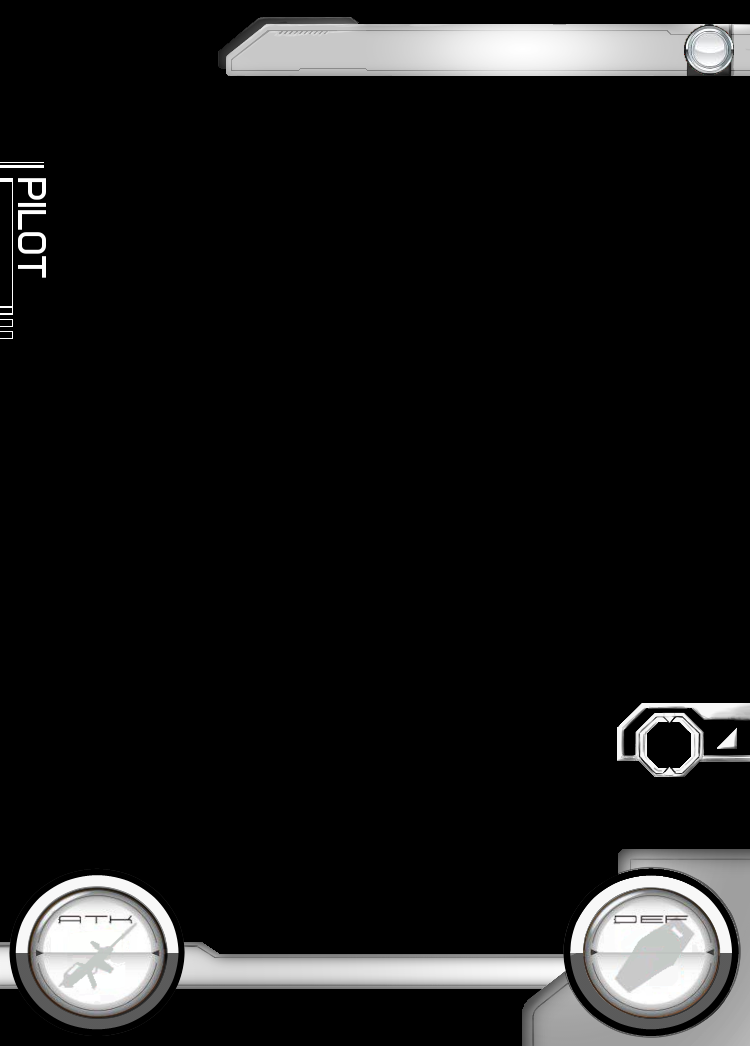
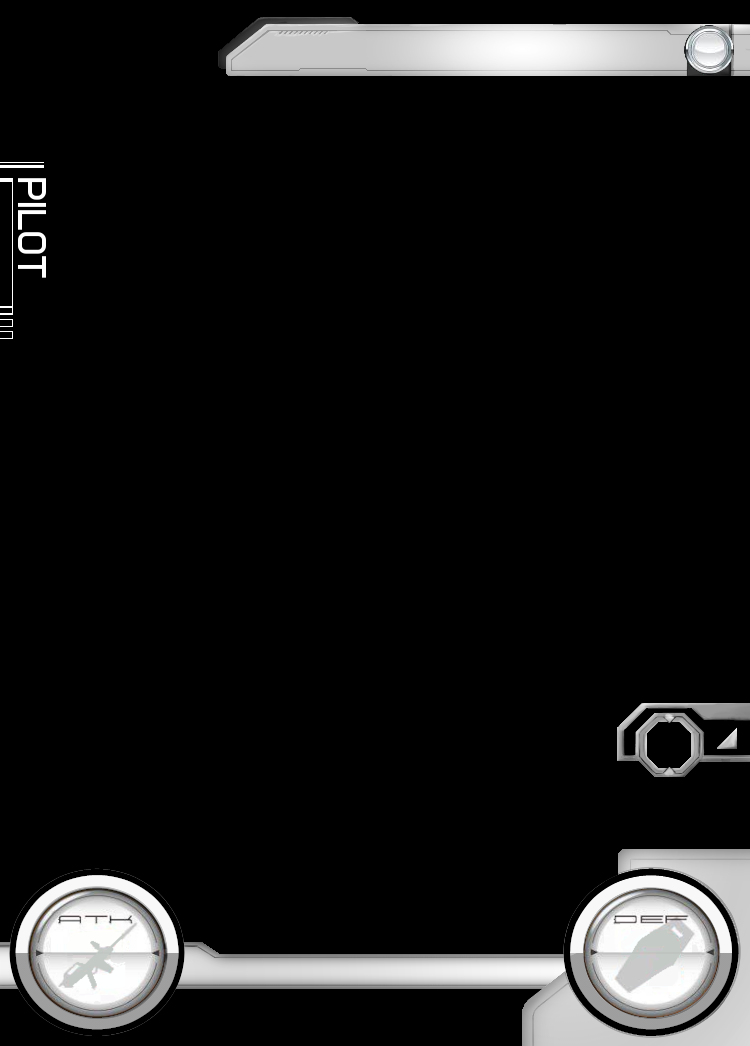
pilot lens color fix
also:
* Resolved error in line 1089/1118
* missing features updated

diff --git a/README.md b/README.md
@@ -2,9 +2,10 @@ Bugs/fixes:
 * Swapping card type after swapping to multicolor throws an error.
 
 Features Missing
-*
-*
-
+* Collection/Promo Style:
+	* Unit
+	* Crew
+	* Warship
 
 Resolved: 
 * Card Layouts v2
